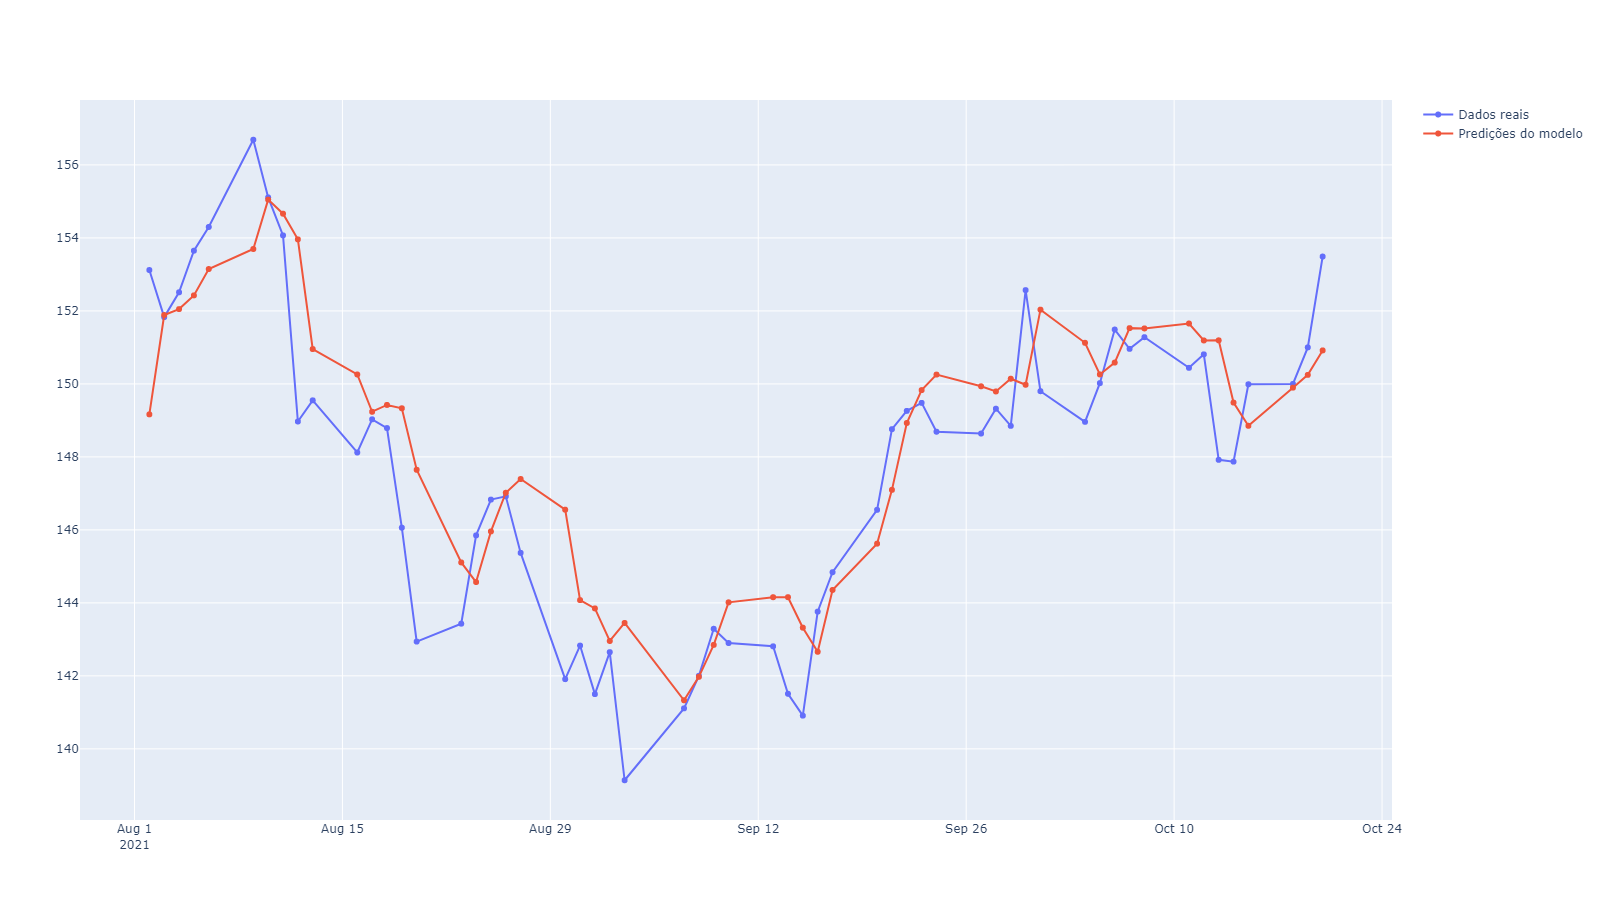
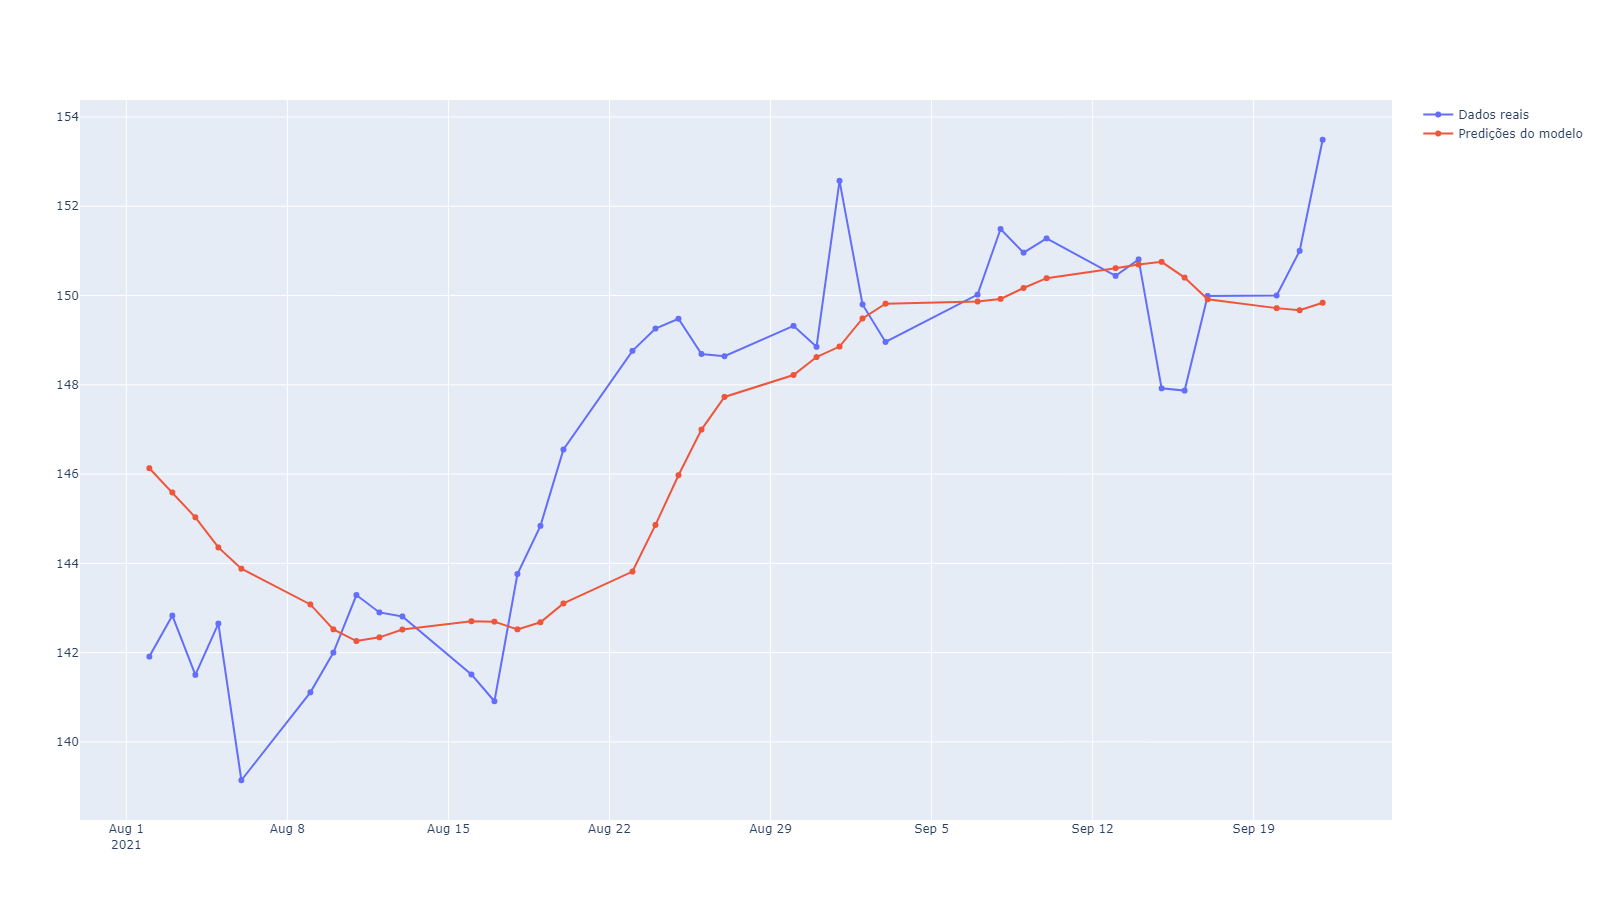
asdf

diff --git a/Code/LSTM_continuous.py b/Code/LSTM_continuous.py
@@ -22,11 +22,17 @@ Aqui carregamos nossos dados na memória e chamamos a função definida anterior
 
 dataframe_train = web.DataReader('AAPL', 'yahoo', start = '2000-01-01', end = '2021-07-31') # Carregamos nossos dados de treino na memória usando o pandas
 
-data = dataframe_train['Close'].to_list()
+display(dataframe_train)
 
-len_lags = 20 # tamanho da nossa janela
+scaler = MinMaxScaler()
 
-X_train, Y_train = split_sequence(data, len_lags)
+series = dataframe_train.iloc[:,3:4].values
+
+processed_series = scaler.fit_transform(series)
+
+len_lags = 40 # tamanho da nossa janela
+
+X_train, Y_train = split_sequence(processed_series, len_lags)
 
 X_train = X_train.reshape((X_train.shape[0], X_train.shape[1], 1))
 
@@ -39,11 +45,18 @@ Parte responsável pela construção, experimentação e treinamento das redes
 '''
 
 Model = Sequential() # Inicialização da nossa rede
-Model.add(LSTM(units = 100, return_state = False))
-Model.add(Dense(units = 1, activation = "exponential"))
+Model.add(LSTM(units = 85, return_sequences = True, input_shape = (len_lags,1)))
+Model.add(Dropout(0.2))
+# Model.add(LSTM(units = 70, return_sequences = True))
+# Model.add(Dropout(0.2))
+Model.add(LSTM(units = 85))
+# Model.add(Dropout(0.2))
+Model.add(Dense(10))
+Model.add(Dense(units = 1))
+
 Model.compile(loss = 'mean_squared_error', optimizer = 'adam') # Compilação do modelo indicando qual função de perda a ser usada e o otimizador de escolha
 
-Model.fit(X_train, Y_train, epochs = 15, batch_size = 300, verbose = 1) # Chamada do treinamento e otimização da rede
+Model.fit(X_train, Y_train, epochs = 10, batch_size = 32, verbose = 1) # Chamada do treinamento e otimização da rede
 
 
 #--------------------#--------------------#--------------------#--------------------#--------------------#--------------------#--------------------#--------------------#--------------------#
@@ -54,9 +67,11 @@ Carregamento dos dados de validação do modelo
 
 dataframe2 = web.DataReader('AAPL', 'yahoo', start = '2021-08-01', end = '2021-11-17') # Carregamento na memória da nossa base de teste 
 
-data_test = dataframe2['Close'].values.tolist()
+data_test = dataframe2.iloc[:,3:4].values
 
-X_test, Y_test = split_sequence(data_test, len_lags)
+data_test_processed = scaler.transform(data_test)
+
+X_test, Y_test = split_sequence(data_test_processed, len_lags)
 
 X_test = X_test.reshape((X_test.shape[0], X_test.shape[1], 1))
 
@@ -64,15 +79,19 @@ predictions = Model.predict(X_test)
 
 print(Model.evaluate(X_test, Y_test))
 
+predictions = scaler.inverse_transform(predictions)
+
+Y_test = scaler.inverse_transform(Y_test)
+
 #--------------------#--------------------#--------------------#--------------------#--------------------#--------------------#--------------------#--------------------#--------------------#
 
 '''
 Plotagem para comparação dos dados de teste e as predições feitas
 '''
 
-fig = go.Figure(go.Scatter(x = dataframe2.index, y = Y_test, name = "Dados reais", mode = "lines+markers"))
+fig = go.Figure(go.Scatter(x = dataframe2.index, y = Y_test[:,0], name = "Dados reais", mode = "lines+markers"))
 
-fig.add_trace(go.Scatter(x = dataframe2.index, y = predictions[:][:,0], name = "Predições do modelo", mode = "lines+markers"))
+fig.add_trace(go.Scatter(x = dataframe2.index, y = predictions[:,0], name = "Predições do modelo", mode = "lines+markers"))
 
 fig.write_image(fr"C:\Users\GuilhermeTakata\Documents\Tese2021\Graphs and Images\LSTM_AAPL.png", format = "png", width = 1600, height = 900)
 
